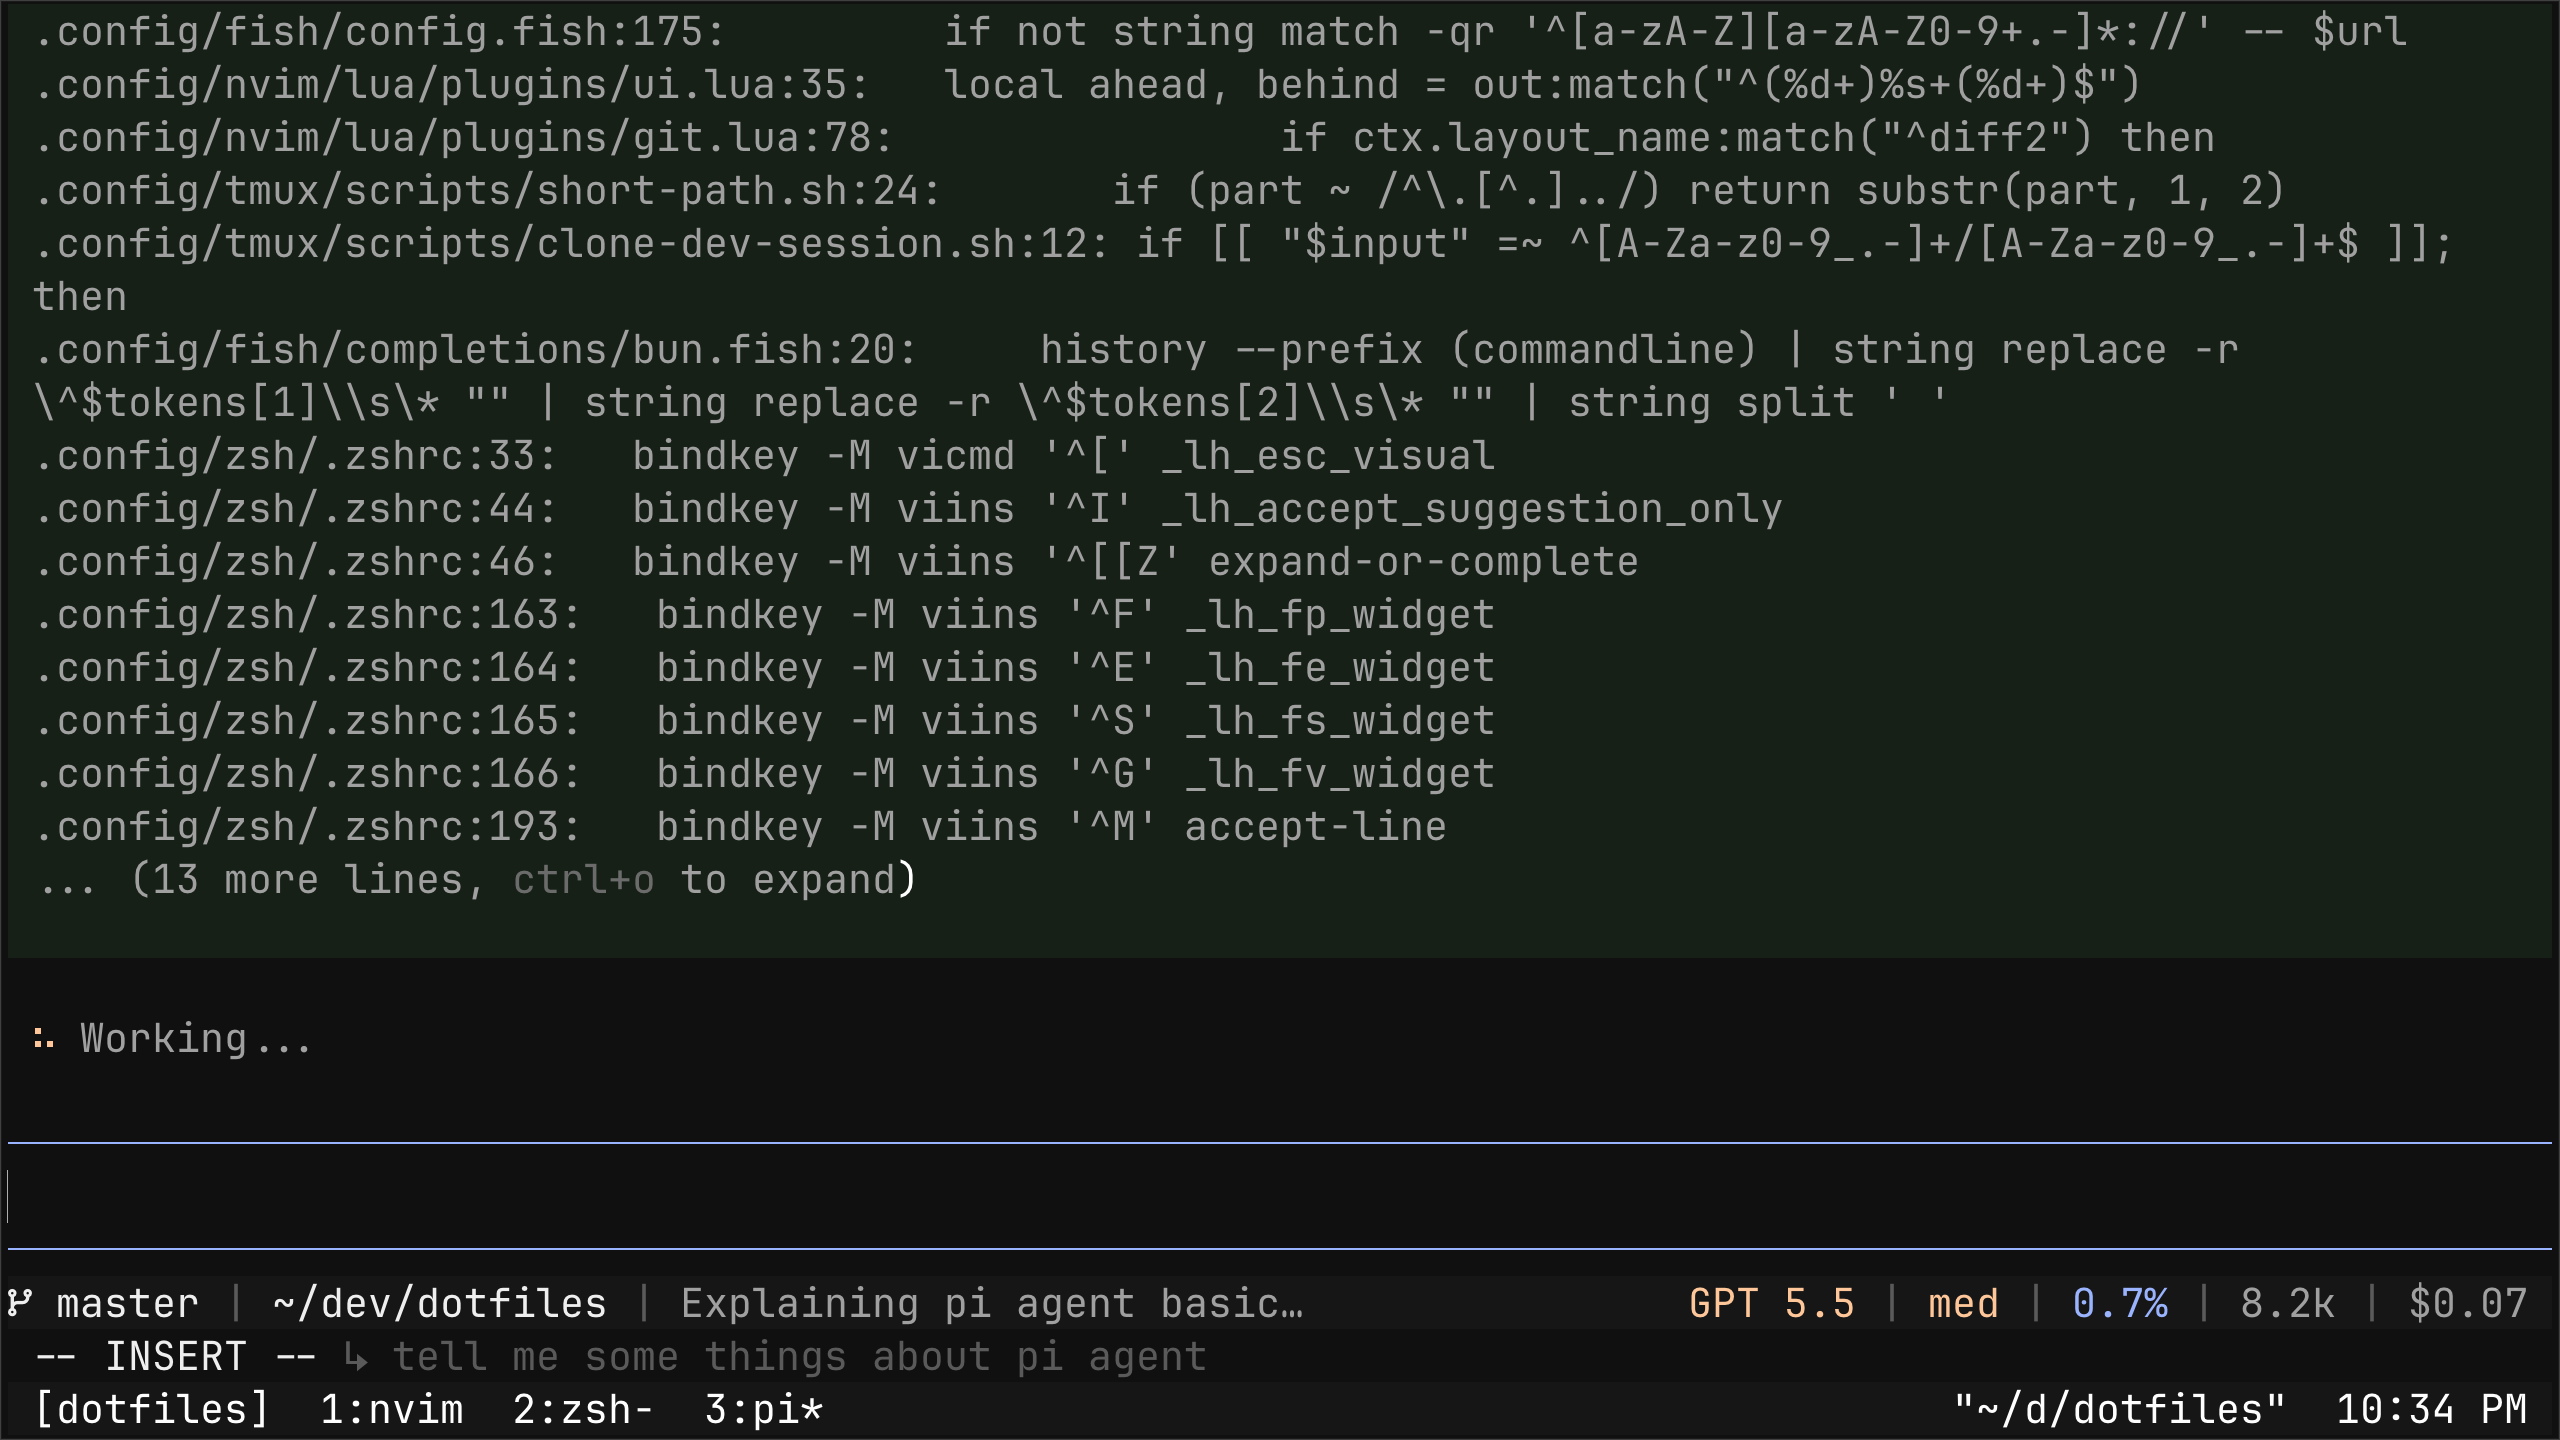
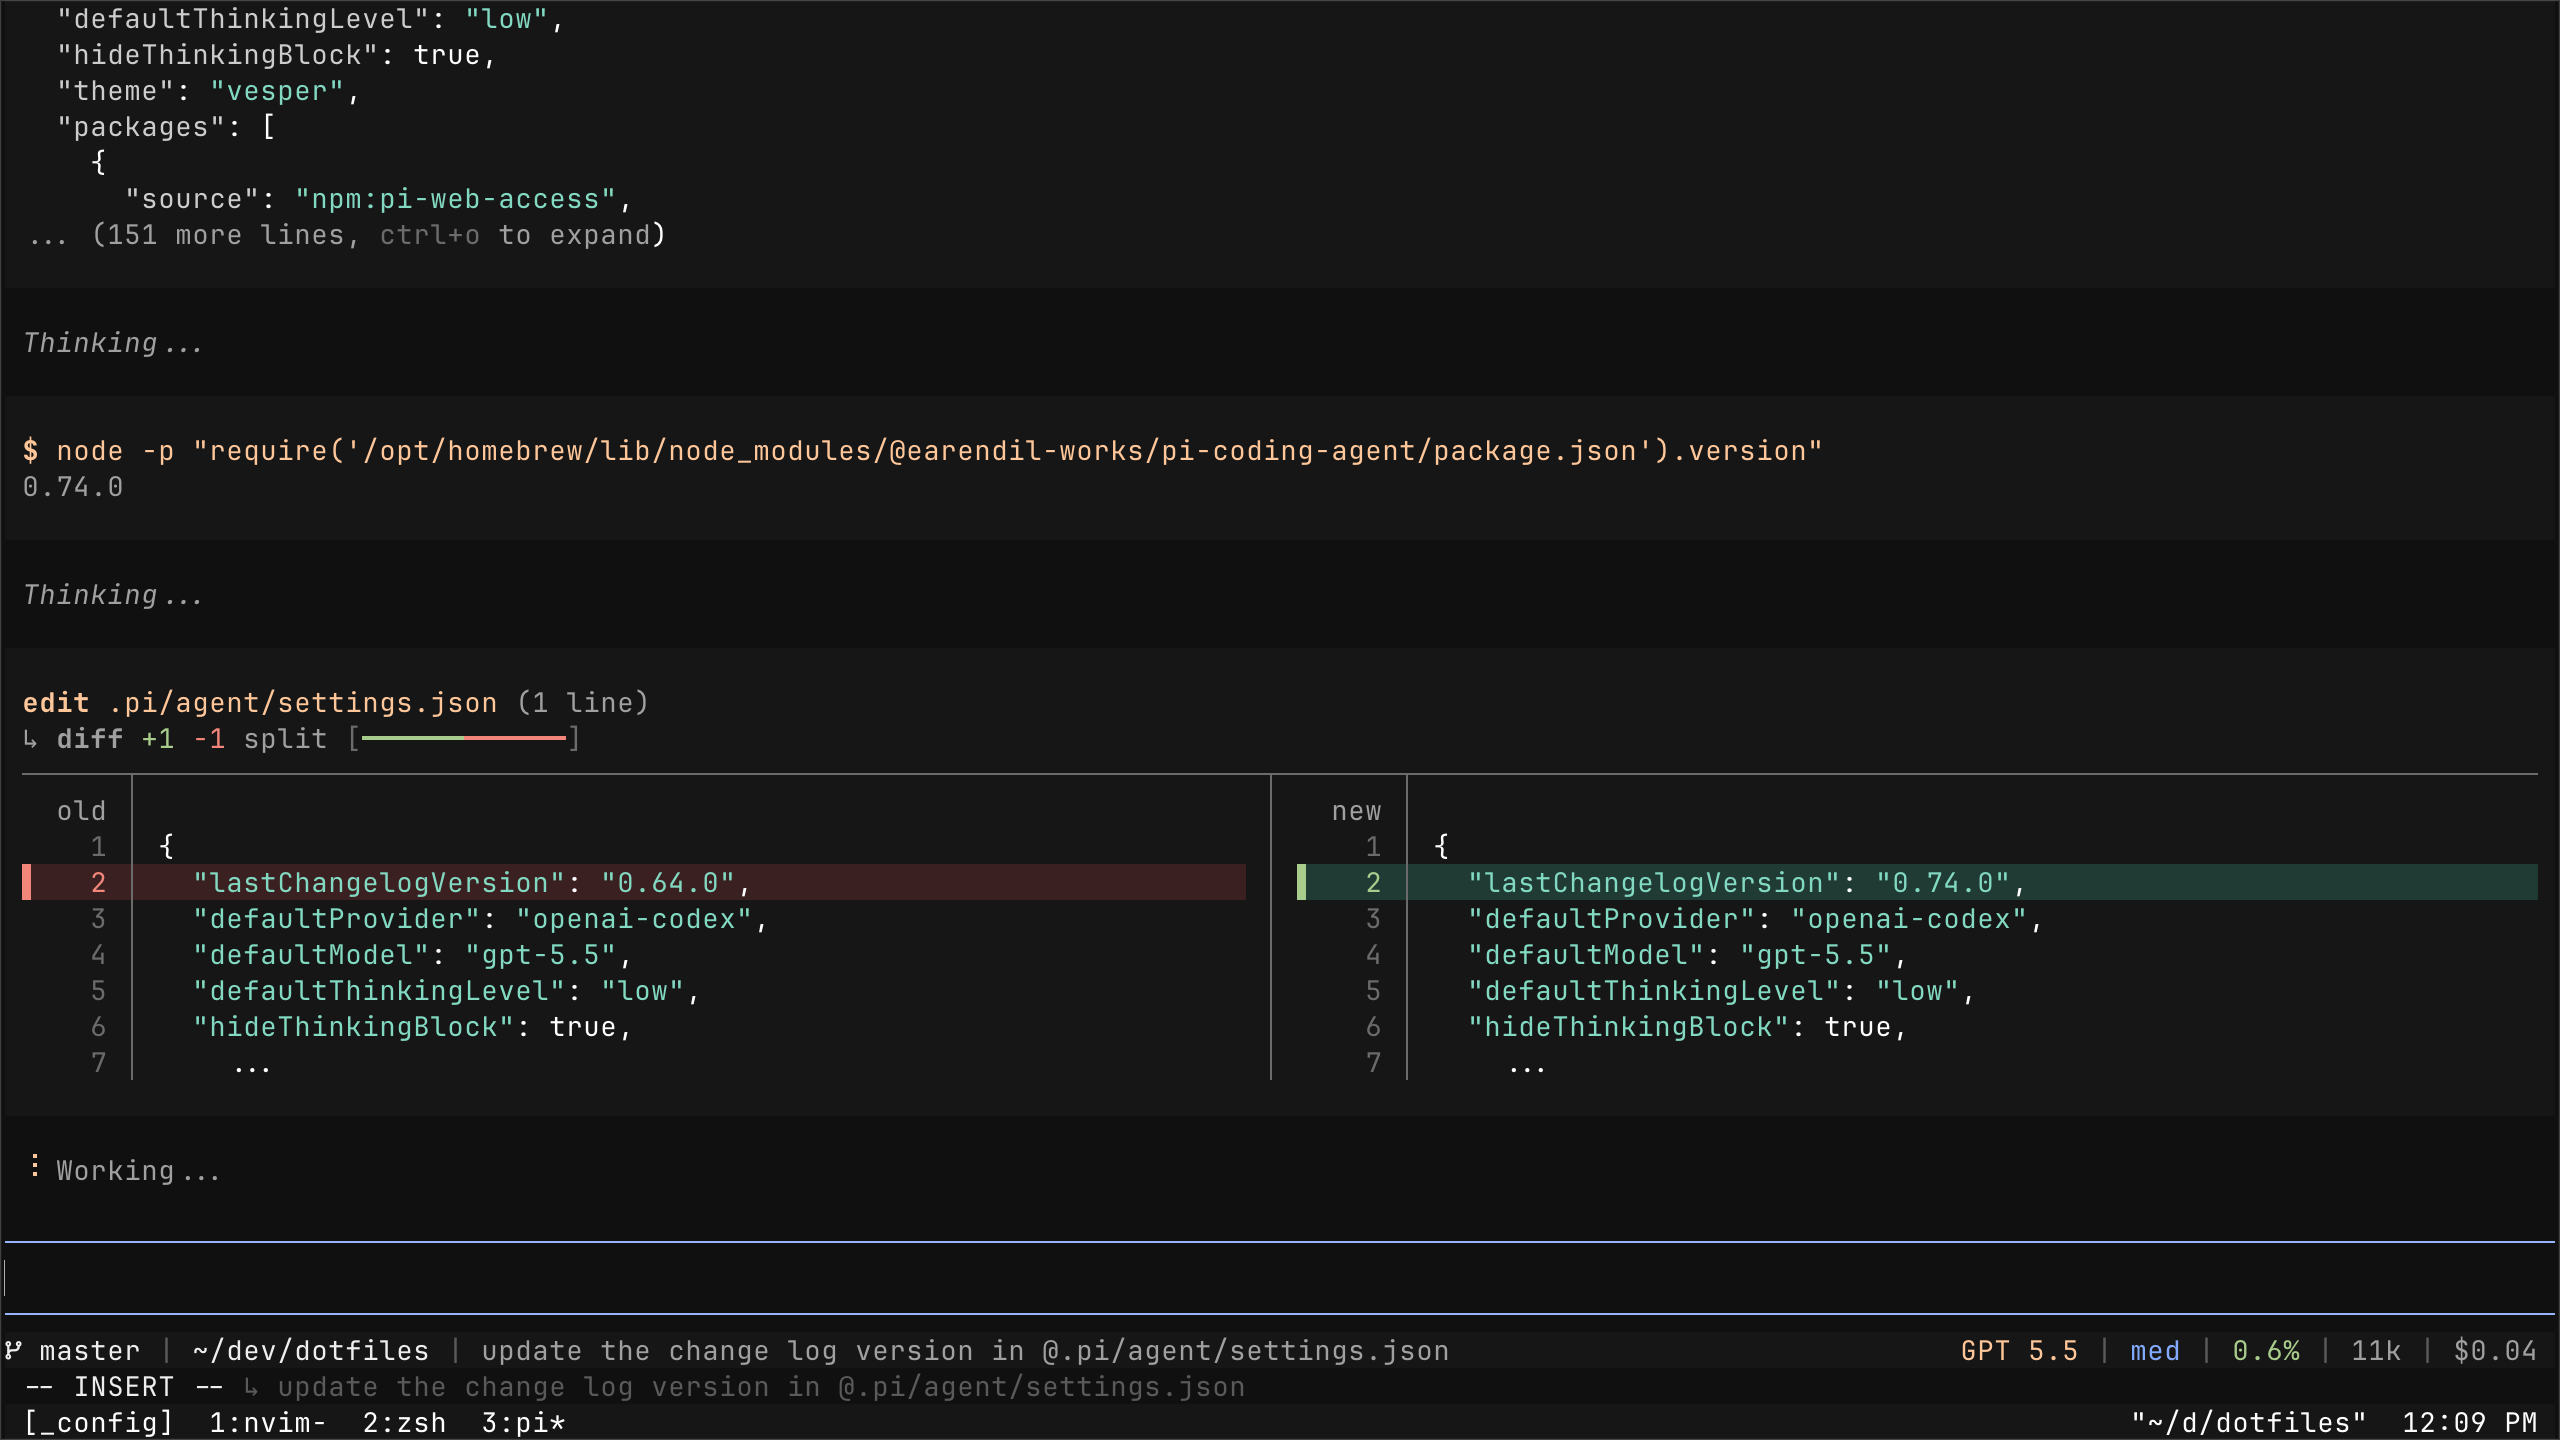
docs update

diff --git a/README.md b/README.md
@@ -20,8 +20,18 @@ Restore: [`./scripts/bootstrap-macos.sh`](./scripts/bootstrap-macos.sh)
 
 ---
 
-![Neovim screenshot](./assets/nvim2.png)
+## nvim
 
-![Shell screenshot](./assets/shell.png)
+![nvim screenshot](./assets/nvim.png)
 
-![Pi screenshot](./assets/pi.png)
+## diffview.nvim
+
+![diffview screenshot](./assets/diffview.png)
+
+## delta
+
+![delta screenshot](./assets/delta.png)
+
+## pi
+
+![pi screenshot](./assets/pi.png)

diff --git a/.config/delta/README.md b/.config/delta/README.md
@@ -2,10 +2,12 @@
 
 Git diff viewer.
 
+![Delta screenshot](../../assets/delta.png)
+
 ## Usage
 
 ```bash
-git ds
-git dsa
-git dss
+git ds # git diff
+git dsa # git diff all (untracked)
+git dss # git diff --staged
 ```

diff --git a/.config/tmux/README.md b/.config/tmux/README.md
@@ -1,8 +1,5 @@
 # tmux
 
-- `C-a` prefix
-- popup/session helpers with `fzf`
-
 Plugins:
 
 - `tmux-plugins/tpm`
@@ -11,7 +8,7 @@ Plugins:
 - `leohenon/tmux-palette`
 - `leohenon/tmux-tab`
 
-Key scripts:
+Scripts:
 
 | key        | script                    | does                                                            |
 | ---------- | ------------------------- | --------------------------------------------------------------- |
@@ -19,8 +16,6 @@ Key scripts:
 | `prefix N` | `new-dev-session.sh`      | create `~/dev` directory and open new session at that directory |
 | `prefix K` | `kill-current-session.sh` | kill current session, return to last                            |
 | `prefix S` | `new-session -s`          | create named sessions                                           |
-
-Other scripts:
 
 | script                  | does                        |
 | ----------------------- | --------------------------- |

diff --git a/.pi/README.md b/.pi/README.md
@@ -2,7 +2,7 @@
 
 pi config lives here at `.pi/agent/` and is rsynced to `~/.pi/agent/` by `scripts/bootstrap-macos.sh`.
 
-![Pi](./assets/pi.png)
+![Pi](../assets/pi.png)
 
 ## Extensions
 
@@ -12,11 +12,10 @@ pi config lives here at `.pi/agent/` and is rsynced to `~/.pi/agent/` by `script
 - `git:github.com/leohenon/pi-claude-agent-sdk`
 - `npm:pi-fff`
 - `git:github.com/v2nic/pi-caveman`
-- `npm:@leohenon/pi-vim`
 - `npm:pi-anthropic-oauth`
 - `git:github.com/offline-ant/pi-tmux`
 - `npm:pi-mux`
-- `npm:@tryinget/pi-little-helpers`
+- `git:github.com/leohenon/pi-stash`
 - `git:github.com/badlogic/pi-telegram`
 - `npm:pi-whisper`
 - `npm:pi-snake`
@@ -24,6 +23,7 @@ pi config lives here at `.pi/agent/` and is rsynced to `~/.pi/agent/` by `script
 - `git:github.com/leohenon/pi-tool-display`
 - `npm:pi-skill-palette`
 - `git:github.com/leohenon/my-pi-statusline`
+- `git:github.com/leohenon/pi-vim@vim-status-bar`
 
 ## Skills
 

diff --git a/.config/nvim/README.md b/.config/nvim/README.md
@@ -1,6 +1,6 @@
 # nvim
 
-![nvim](assets/nvim.png)
+![nvim](../../assets/nvim.png)
 
 ## plugins
 